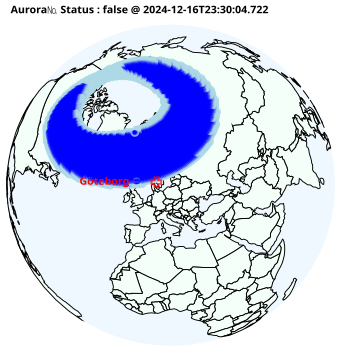
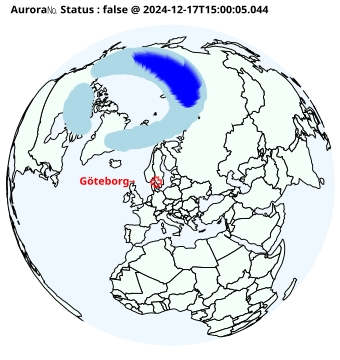
20241217150018 added aur.html

Changed region(s): [[0.1176, 0.1222, 0.6471, 0.55], [0.7059, 0.0, 0.7941, 0.0611], [0.5588, 0.0, 0.6765, 0.0306]]

diff --git a/aur.html b/aur.html
@@ -7,6 +7,6 @@
 <body>
     <h1>Aurora Watch</h1>
     <img src="a.png" alt="Aurora Image" style="width:100%;max-width:600px;">
-    <p>Aurora Level 🌌= (3.0) was observed. (2024-12-16T23:30:04.722)</p>
+    <p>Aurora Level 🌌= (0.0) was observed. (2024-12-17T15:00:05.044)</p>
 </body>
 </html>
